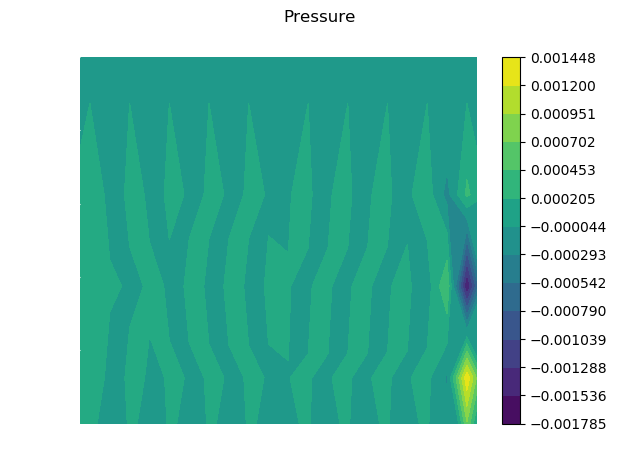
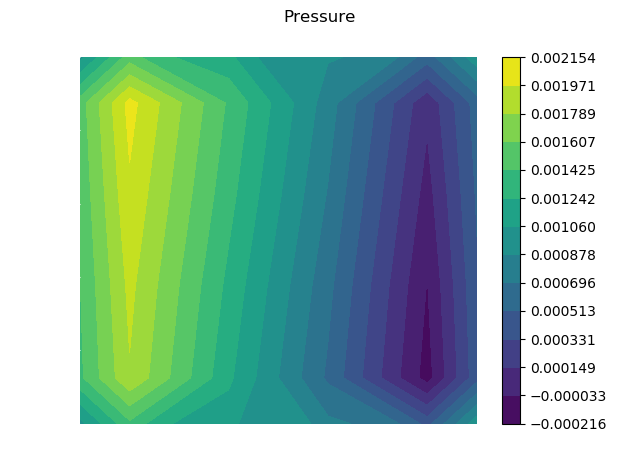
Not quite correct, doesn't scale

diff --git a/Solver.py b/Solver.py
@@ -157,7 +157,6 @@ class Solution:
 
                 # Initialize Values
                 a_e, a_w, a_n, a_s = [0]*4
-                fe, fw, fn, fs = [0]*4
                 a_p = 0.
 
                 # ADJUST FOR INDEXING
@@ -274,96 +273,63 @@ class Solution:
         self.b_mat = np.zeros(self.p_s.size)
 
         # assemble coefficients
-        for i in xrange(self.p_s.shape[1]):
-            for j in xrange(self.p_s.shape[0]):
+        for n_num in xrange(1, self.n_max + 1):
 
-                n_num = j * self.u_s.shape[1] + i
+            i, j = self.num_to_ij(n_num)
 
-                n_e = -1
-                n_w = -1
-                n_n = -1
-                n_s = -1
+            # ADJUST FOR INDEXING
+            n_id = n_num - 1
 
-                if i < self.u_s.shape[1] - 1:  # If not on the right face
-                    n_e = n_num + 1
-                if i > 0:  # If not on the left face
-                    n_w = n_num - 1
-                if j > 0:  # If not on bottom face
-                    n_s = n_num - self.u_s.shape[1]
-                if j < self.u_s.shape[0] - 1:  # If not on top face
-                    n_n = n_num + self.u_s.shape[1]
+            if i == 1 or i == self.ni or j == 1 or j == self.nj:
+                self.p_a_mat[n_id][n_id] = 1.
 
-                if i == 0 or j == 0 or n_n < 0 or n_e < 0:
-                    self.p_a_mat[n_num][n_num] = 0.
-                else:
+            else:
 
-                    a_e = 0
-                    a_w = 0
-                    a_n = 0
-                    a_s = 0
+                # ADJUST FOR INDEXING
+                i_id = i - 1
+                j_id = j - 1
 
-                    if n_e >= 0:
-                        area_e = self.y[j + 1] - self.y[j]
-                        de = area_e*self.au/self.x_a_mat[n_e][n_e]  # TODO this is giving a divide by zero warning
-                        a_e = self.rho*de*area_e
-                        self.p_a_mat[n_num][n_e] = a_e
-                        self.p_d[n_num][n_e] = de
-                        self.b_mat[n_num] -= self.rho*area_e*self.u_n_s[j][i+1]
-                    if n_w >= 0:
-                        area_w = self.y[j + 1] - self.y[j]
-                        dw = area_w * self.au / self.x_a_mat[n_num][n_num]
-                        a_w = self.rho * dw * area_w
-                        self.p_a_mat[n_num][n_w] = a_w
-                        self.p_d[n_num][n_w] = dw
-                        self.b_mat[n_num] += self.rho * area_w * self.u_n_s[j][i]
-                    if n_n >= 0:
-                        area_n = self.x[i + 1] - self.x[i]
-                        dn = area_n * self.av / self.y_a_mat[n_n][n_n]
-                        a_n = self.rho * dn * area_n
-                        self.p_a_mat[n_num][n_n] = a_n
-                        self.p_d[n_num][n_n] = dn
-                        self.b_mat[n_num] -= self.rho * area_n * self.v_n_s[j+1][i]
-                    if n_s >= 0:
-                        area_s = self.x[i + 1] - self.x[i]
-                        ds = area_s * self.av / self.y_a_mat[n_num][n_s]
-                        a_s = self.rho * ds * area_s
-                        self.p_a_mat[n_num][n_s] = a_s
-                        self.p_d[n_num][n_s] = ds
-                        self.b_mat[n_num] += self.rho * area_s * self.v_n_s[j][i]
-                    a_p = a_e + a_w + a_n + a_s
+                n_e_id = n_id + 1
+                area_e = self.y[j_id+1] - self.y[j_id]
+                de = area_e / self.x_a_mat[n_e_id][n_e_id]
+                a_e = self.rho * de * area_e
+                self.p_a_mat[n_id][n_e_id] = -a_e
+                self.p_d[n_id][n_e_id] = de
+                self.b_mat[n_id] -= self.rho * area_e * self.u_n_s[i_id+1][j_id]
 
-                    self.p_a_mat[n_num][n_num] = a_p
+                n_w_id = n_id - 1
+                area_w = self.y[j_id+1] - self.y[j_id]
+                dw = area_w / self.x_a_mat[n_id][n_id]
+                a_w = self.rho * dw * area_w
+                self.p_a_mat[n_id][n_w_id] = -a_w
+                self.p_d[n_id][n_w_id] = dw
+                self.b_mat[n_id] += self.rho * area_w * self.u_n_s[i_id][j_id]
+
+                n_s_id = n_id - self.ni
+                area_s = self.x[i_id+1] - self.x[i_id]
+                ds = area_s / self.y_a_mat[n_id][n_id]
+                a_s = self.rho * ds * area_s
+                self.p_a_mat[n_id][n_s_id] = -a_s
+                self.p_d[n_id][n_s_id] = ds
+                self.b_mat[n_id] += self.rho * area_s * self.v_n_s[i_id][j_id]
+
+                n_n_id = n_id + self.ni
+                area_n = self.x[i_id+1] - self.x[i_id]
+                dn = area_n / self.y_a_mat[n_n_id][n_n_id]
+                a_n = self.rho * dn * area_n
+                self.p_a_mat[n_id][n_n_id] = -a_n
+                self.p_d[n_id][n_n_id] = dn
+                self.b_mat[n_id] -= self.rho * area_n * self.v_n_s[i_id][j_id+1]
+
+                a_p = a_e + a_w + a_n + a_s
+
+                self.p_a_mat[n_id][n_id] = a_p
 
         # solve matrix
+        a_mat = np.asmatrix(self.p_a_mat)
+        b_mat = np.asmatrix(self.b_mat)
 
-        del_list = [i for i in xrange(self.p_s.shape[1])]
-        for i in xrange(self.p_s.size - 1, self.p_s.size - self.p_s.shape[1], -1):
-            del_list.append(i)
-        for i in xrange(0, self.p_s.size, self.p_s.shape[1]):
-            del_list.append(i)
-        for i in xrange(self.p_s.shape[1] - 1, self.p_s.size, self.p_s.shape[1]):
-            del_list.append(i)
-
-        a_mat = np.delete(self.p_a_mat, del_list, 0)
-        a_mat = np.delete(a_mat, del_list, 1)
-        b_mat = np.delete(self.b_mat, del_list)
-
-        a_mat = np.asmatrix(a_mat)
-        b_mat = np.asmatrix(b_mat)
-
-        pns = np.asarray(a_mat.I * b_mat.transpose())
-
-        k = 0
-        # assemble coefficients
-        for j in xrange(self.v_s.shape[0]):  # rows
-            for i in xrange(self.v_s.shape[1]):  # columns
-                n_num = j * self.v_s.shape[1] + i
-
-                if n_num in del_list:
-                    self.p_p[j][i] = 0
-                else:
-                    self.p_p[j][i] = pns[k]
-                    k += 1
+        self.p_p = np.asarray(a_mat.I * b_mat.transpose()).reshape((self.ni, self.nj), order='F')
 
     def correct_values(self):
 
